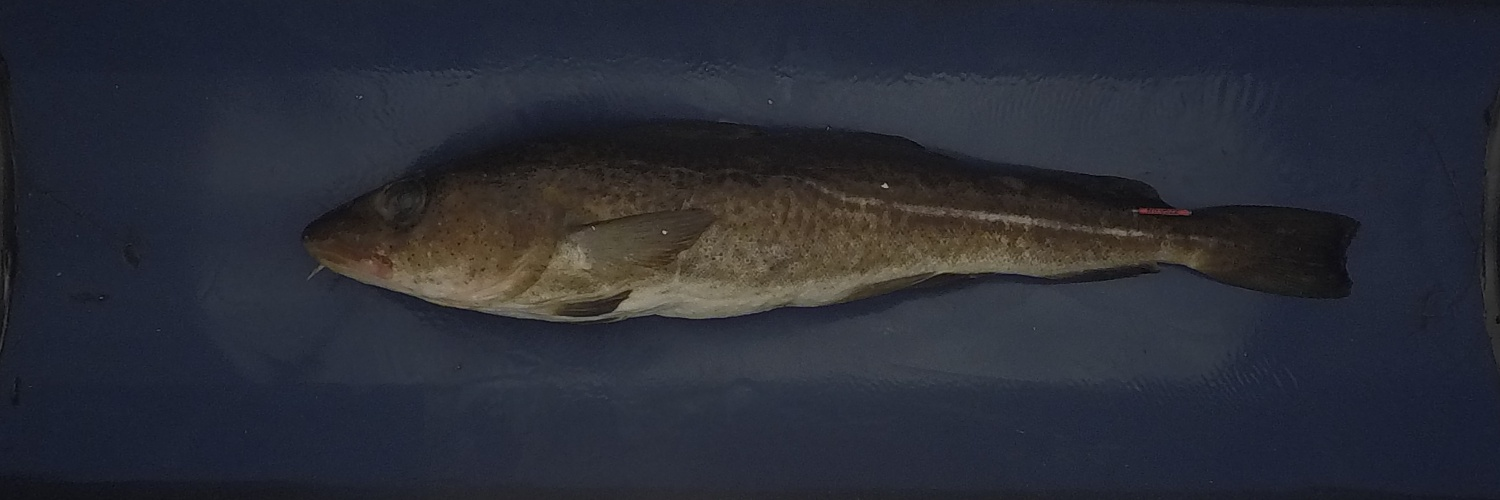
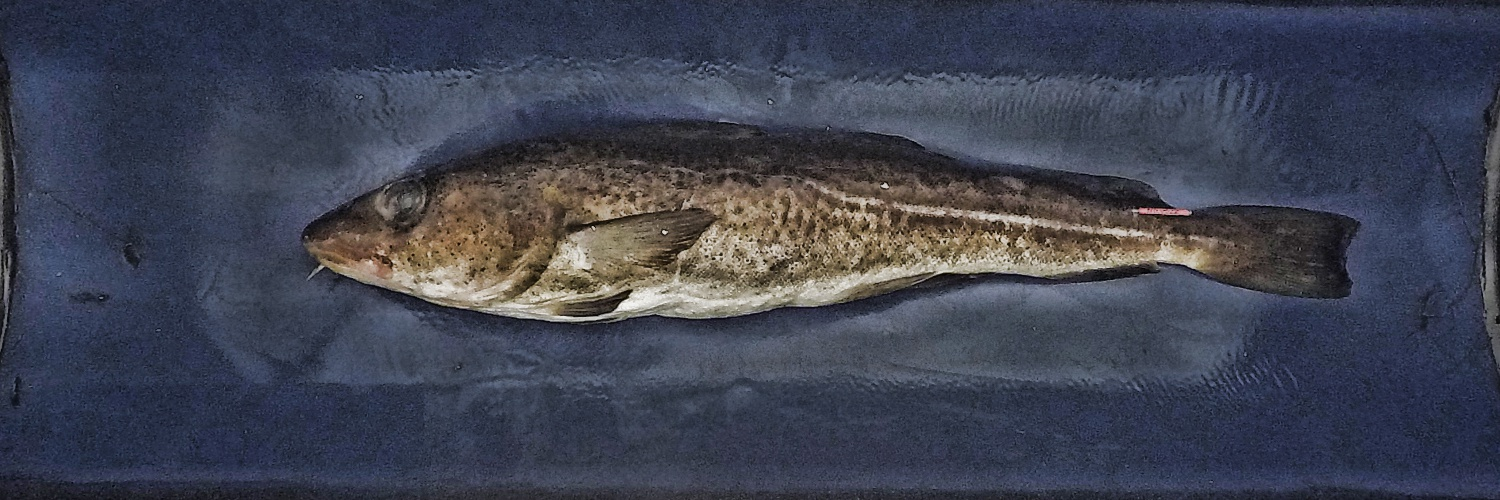
src image changed

diff --git a/main.py b/main.py
@@ -1,7 +1,7 @@
 import cv2
 import matplotlib.pyplot as plt
 
-from basic_image_functions import crop, claheHSL
+from basic_image_functions import crop, claheHSL, normHistEqualizeHLS
 from calibration import undistortImg
 from mathias_functions import convert_RGB_to_HSV, smallrange_isolate_img_content, detect_bloodspots, isolate_img
 
@@ -9,16 +9,17 @@ save_steps     = True
 recalibrate    = False
 
 'Step 1: Load image'
-img = cv2.imread("fish_pics/step1_GOPR1911.JPG", 1)
+img = cv2.imread("fish_pics/step1_haandholdt_closeup_GOPR1886.JPG", 1)
 
 'Step 2: undistort image'
 img_undistorted = undistortImg(img, recalibrate)
 
 'Step 3: Crop to ROI'
-img_cropped = crop(img_undistorted, 900, 650, 500, 1500)
+img_cropped = crop(img_undistorted, 800, 650, 500, 2000)
+#img_cropped = crop(img_undistorted, 900, 650, 500, 1500)
 
 'Step 4: Apply CLAHE'
-img_CLAHE = claheHSL(img_cropped, 4, (20,20))
+img_CLAHE = claheHSL(img_cropped, 1.5, (20,20))
 
 'Step 5: Show pre-processing steps in one plot'
 # OpenCV loads pictures in BGR, but the this step is plotted in RGB:
@@ -63,7 +64,7 @@ cv2.imshow('img_segmented_cod',img_segmented_cod)
 if save_steps == True:
      cv2.imwrite('fish_pics/step2.JPG',img_undistorted)
      cv2.imwrite('fish_pics/step3.JPG',img_cropped)
-     cv2.imwrite('fish_pics/step4.JPG',img_cropped)
+     cv2.imwrite('fish_pics/step4.JPG',img_CLAHEq)
      cv2.imwrite('fish_pics/step6.JPG',img_segmented_cod)
 
 '''

diff --git a/basic_image_functions.py b/basic_image_functions.py
@@ -18,7 +18,7 @@ def doClaheLAB2(null):
 
 
 def normHistEqualizeHLS(img):
-    fiskHLS1 = img
+    fiskHLS1 = cv2.cvtColor(img, cv2.COLOR_BGR2HLS)
     LChannel = fiskHLS1[:,:,1]
     HistEqualize = cv2.equalizeHist(LChannel)
     fiskHLS1[:,:,1] = HistEqualize
